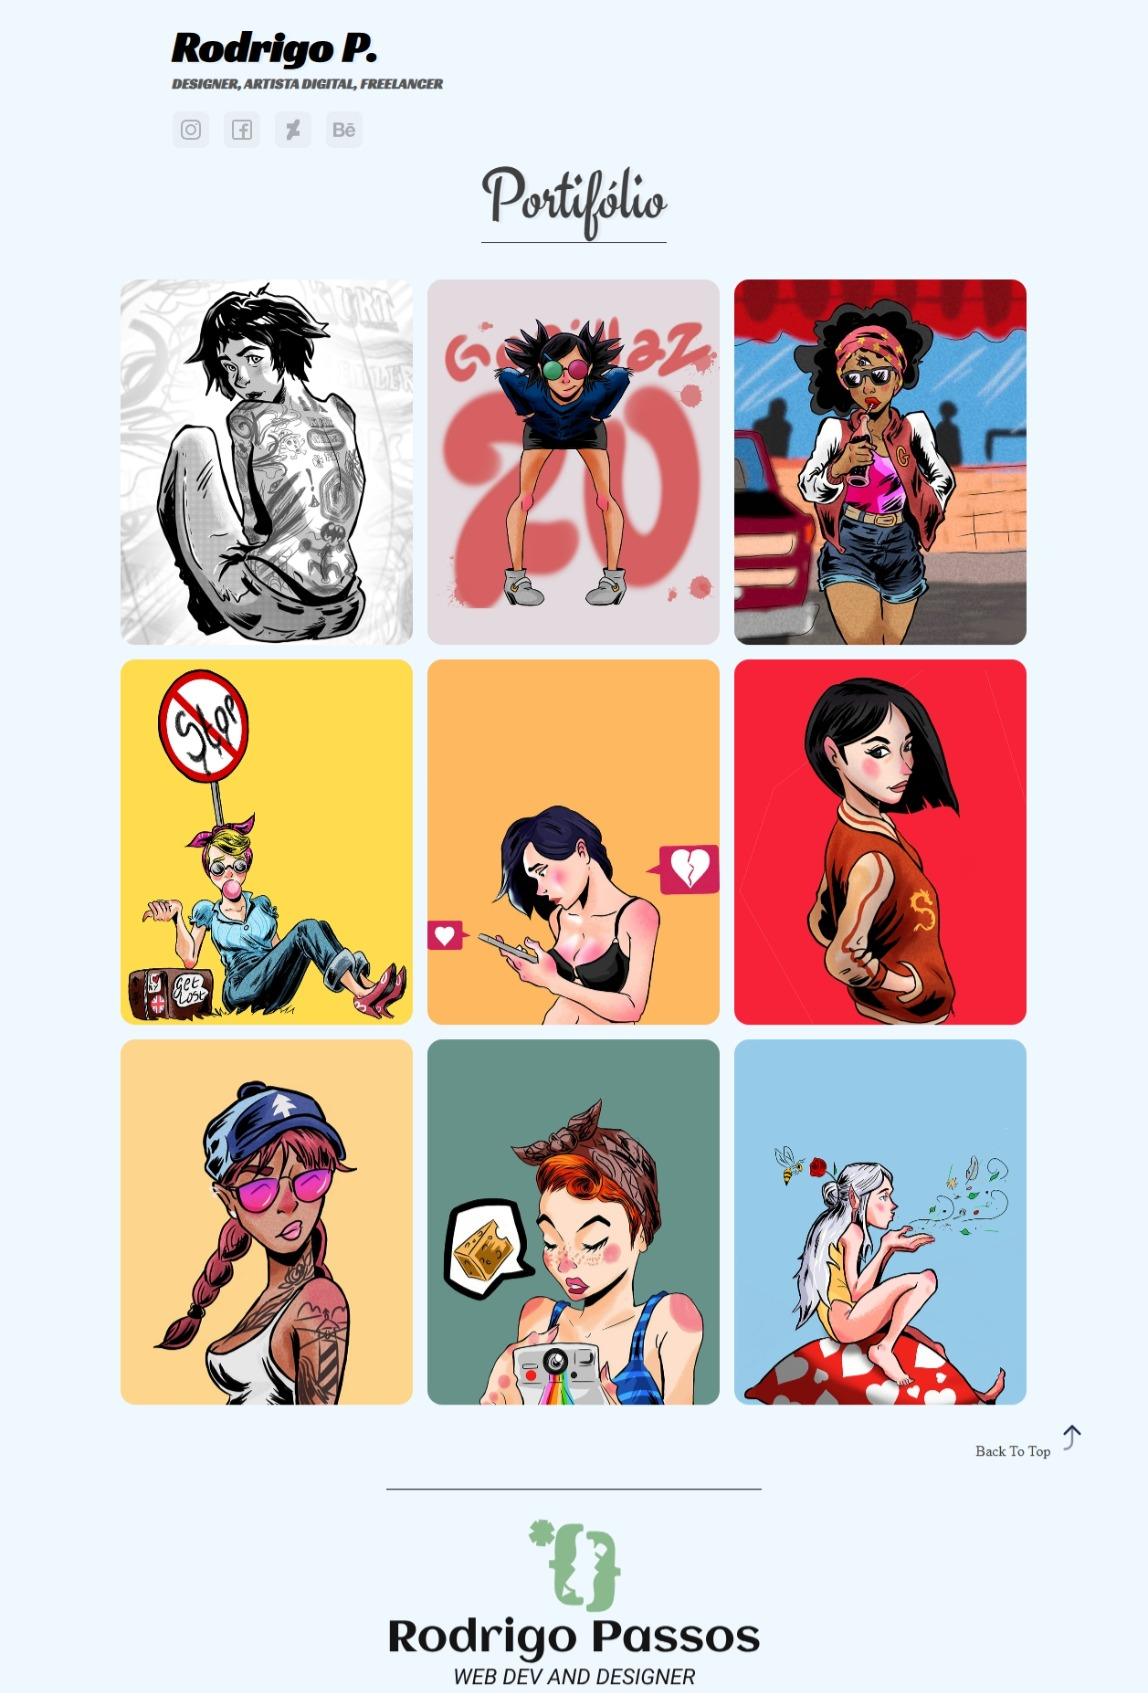
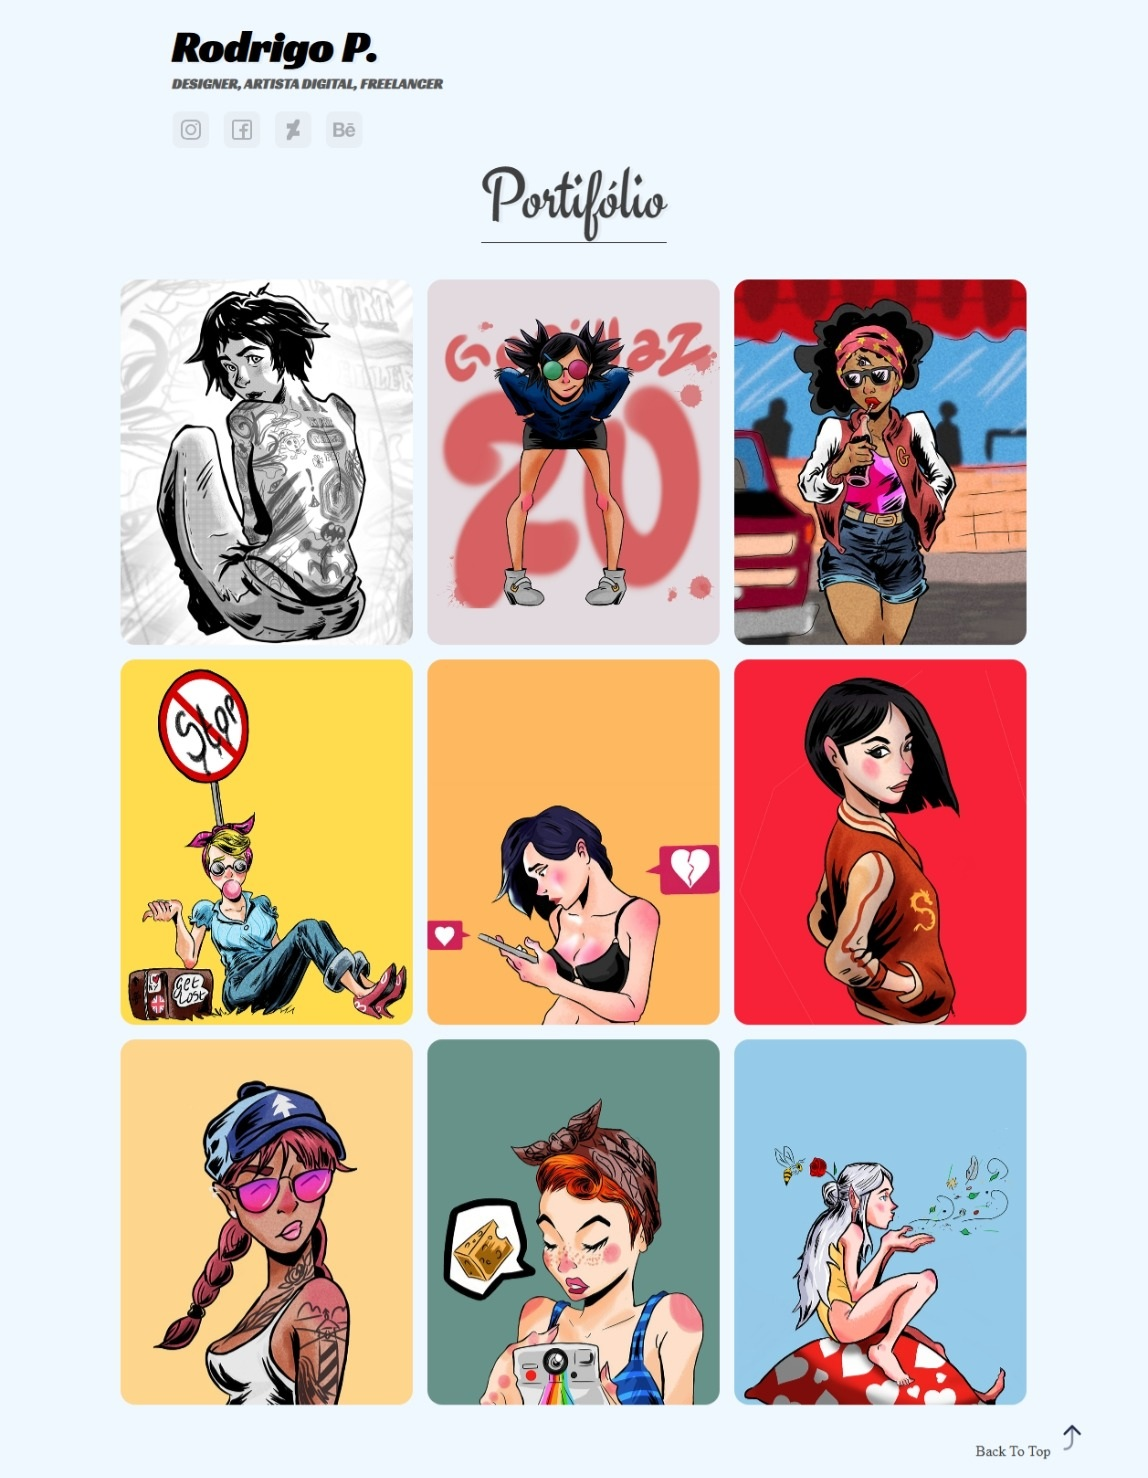
building

diff --git a/src/css/header.css b/src/css/header.css
@@ -6,11 +6,12 @@
   flex-direction: row;
   justify-content: space-around;
   position: fixed;
-  top: 0;
+  top: 1%;
   left: 30%;
-  width: 40%;
+  right: 30%;
+  width: 30em;
   height: 3em;
-  margin: 0.5em auto;
+  margin: 0em auto;
   padding: 0.5em;
   font-weight: bold;
   color: #f3ede3;
